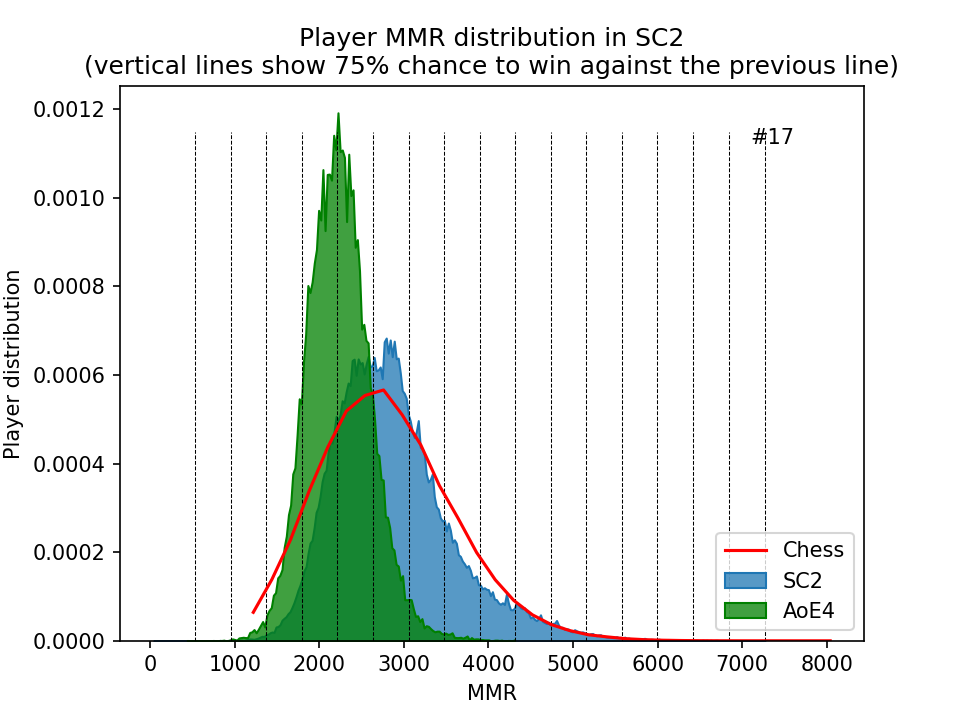
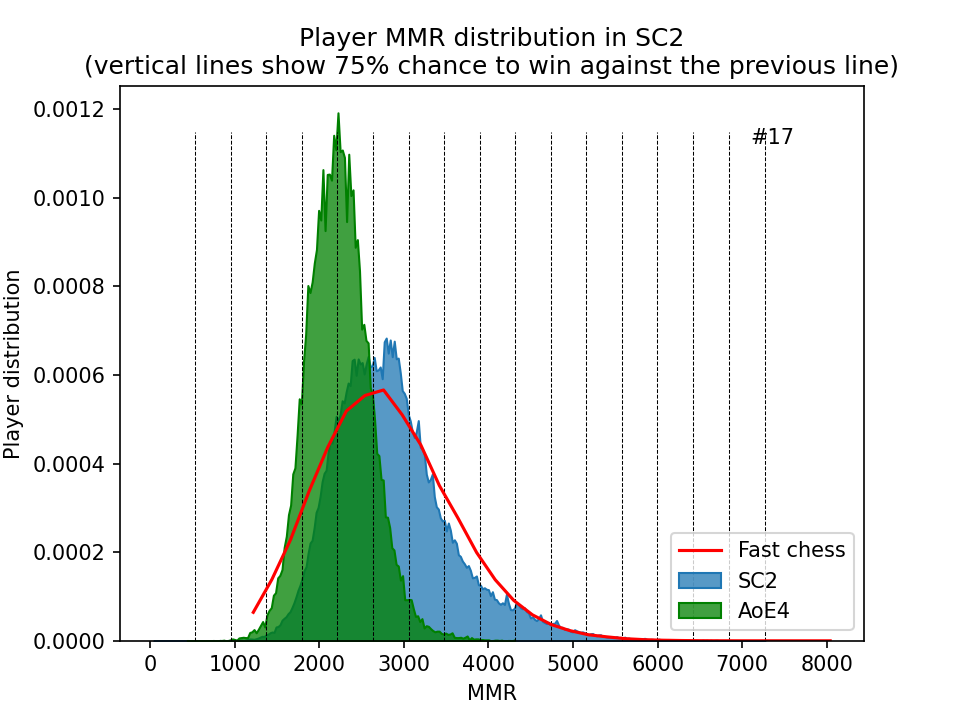
spelling

Changed region(s): [[0.6875, 0.7333, 0.875, 0.8861]]

diff --git a/mmr.py b/mmr.py
@@ -109,7 +109,7 @@ def plot_scaling(data):
     cx = np.array(list(chess_data.keys()))
     cy = np.array(list(chess_data.values()))
     cy = cy/np.sum(cy)/200
-    plt.plot(cx * 2.2 + 1000, cy, label="Chess", color='r')
+    plt.plot(cx * 2.2 + 1000, cy, label="Fast chess", color='r')
 
     plt.legend()
     plt.savefig("mmr_scaling.png")
